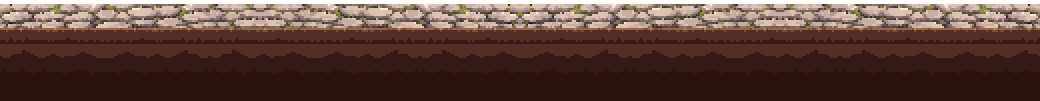
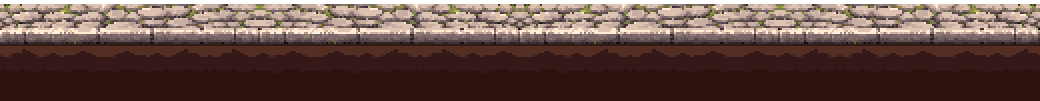
Town: paving ends fray into the turf, a curb along its front; props sorted by ground depth
tools/make_town_stone.py: k_stone gets a row of dressed curb stones on its front edge; k_stone_cap ends each STONE
span with whole cobbles thinning out into the lawn. Crates, barrels, lamps and rocks are drawn back to front by
where they meet the ground (rocks now sit at depths too); the nearer-than-the-stand-line ones stay over the people.

Claude-Session: https://claude.ai/code/session_01FzDataYedfiK9tzFLcKdoU

diff --git a/tools/make_town_stone.py b/tools/make_town_stone.py
@@ -1,0 +1,55 @@
+"""Stone paving for the town ground (owner 2026-11-06: "돌길은 옆이랑 앞이랑 이어지게 자연스럽게"), from the map scene's
+cobble piece (AI source, kept out of the repo; 1-px grid -> doubled to the town's 2-px grid).
+  k_stone.png      the paving tile: cobbles on the top, a row of dressed curb stones along the front edge, then earth
+  k_stone_cap.png  the paving's end over the lawn: whole stones thinning out raggedly into the turf, the curb ending
+                   on a stone (drawn at each end of a STONE span, mirrored on the right)
+Usage: python3 tools/make_town_stone.py COBBLE_PIECE.png"""
+import sys
+import numpy as np
+from PIL import Image
+from scipy import ndimage as ndi
+
+cob = np.array(Image.open(sys.argv[1]).convert("RGBA"))
+cl = np.array(Image.open("assets/town/k_clear.png").convert("RGBA"))
+lawn = np.array(Image.open("assets/town/k_lawn.png").convert("RGBA"))
+x2 = lambda a: np.repeat(np.repeat(a, 2, 0), 2, 1)
+TOP0, TOP1 = 4, 28                       # the walkable top's rows in the ground tiles
+band = x2(cob[12:24, 30:160])[:TOP1 - TOP0]          # cobbles, 260 wide
+band = np.concatenate([band, band[:, ::-1]], 1)      # 520, seamless by mirroring
+curb = x2(cob[0:8, 30:160])                          # 16 rows, 260 wide (period divides 520)
+W = 1040
+st = np.tile(cl, (1, 1 + W // cl.shape[1], 1))[:, :W].copy()
+t = np.tile(band, (1, W // band.shape[1], 1))
+reg = st[TOP0:TOP1]; m = t[..., 3] > 127; reg[m] = t[m]
+c = np.tile(curb, (1, W // curb.shape[1], 1))
+reg = st[TOP1:TOP1 + 16]; m = c[..., 3] > 127; reg[m] = c[m]
+# a dark shadow line under the curb, then the earth face as before
+sh = st[TOP1 + 16:TOP1 + 18]; o = sh[..., 3] > 127; sh[o, :3] = (sh[o, :3] * 0.6).astype(np.uint8)
+st[:TOP0, :, 3] = 0
+Image.fromarray(st).save("assets/town/k_stone.png")
+
+# the end cap: 96 px; left = lawn, right = paving; the edge walks along whole cobbles
+CW = 96
+cap = lawn[:, :CW].copy()
+src = st[:, :CW]
+# cobble blobs: the light stone pixels between the dark mortar
+top = src[TOP0:TOP1]
+lum = top[..., :3].astype(int).sum(-1)
+stone = (lum > np.percentile(lum[top[..., 3] > 127], 35)) & (top[..., 3] > 127)
+lab, n = ndi.label(stone)
+rng = np.random.default_rng(11)
+keep = np.zeros(n + 1, bool)
+for i in range(1, n + 1):
+    ys, xs = np.nonzero(lab == i)
+    cx = xs.mean() + rng.normal(0, 7)
+    keep[i] = cx > CW * 0.42                      # stones nearer the paving stay, the outer ones are gone
+mask = keep[lab]
+mask = ndi.binary_dilation(mask, iterations=1) & (top[..., 3] > 127)   # each kept stone with its mortar ring
+mask[:, int(CW * 0.78):] = True
+cap[TOP0:TOP1][mask] = top[mask]
+# the curb: whole from the first curb joint past the middle, nothing before it
+cx0 = int(CW * 0.5) // 2 * 2
+cap[TOP1:TOP1 + 18, cx0:] = src[TOP1:TOP1 + 18, cx0:]
+cap[TOP1:TOP1 + 18, cx0:cx0 + 2, :3] = (src[TOP1:TOP1 + 18, cx0:cx0 + 2, :3] * 0.55).astype(np.uint8)   # the curb's end face
+Image.fromarray(cap).save("assets/town/k_stone_cap.png")
+print("k_stone", st.shape, "cap", cap.shape)

diff --git a/docs/work/town-art/MEMO.md b/docs/work/town-art/MEMO.md
@@ -34,3 +34,4 @@
 - 2026-11-06 → 적용: 나무 새로(오크·둥근·어린·포플러 + 큰 나무, 훈련장 나무 2종) 도트 생성 → 실제 크기 절반 축소·정리 → 2배(2px), 잎 흔들림 다시 굽기. 큰 나무·훈련장 나무는 1.35배 확대 목록에서 뺌. 덤불은 오너가 예전 것을 선호해서 유지
 - 2026-11-06 → 적용: 건물(창고·천막·헛간·오두막·우물·대장간·모루·숯가마·본관+창문빛)·분수·덤불의 1.35배본을 디자인 그대로 2px 격자로 다시 만듦(tools/art_loop/rescale_dot.py: 원본을 2px 단위로 읽어 1.35배 재표본→원본 팔레트로 맞춤→정리→2배). 크기·문 위치·이펙트 위치 그대로. 테두리빛(rim)·용광로 다시 굽기
 - 2026-11-06 → 적용: 말 새로(서기 + 눕기·잠·일어서기 포즈를 같은 말 참조로 생성, 8프레임 띠·목/꼬리 분리 다시), 훈련장 울타리 새로(새 문 + 울타리 칸 이어 붙이기 + 과녁 2개). 훈련장 허수아비(dummy)는 그대로
+- 2026-11-06: "계속 작업하고 돌길은 옆이랑 앞이랑 이어지게 자연스럽게 처리하고, 깊이 기준은 땅에 맞다는 기준으로 보고 앞에 있을 수록 앞에. 계속 교체하던거 계속하기." → 적용: 돌길 끝은 돌이 풀 속으로 듬성듬성 사라지는 끝 조각(k_stone_cap), 앞면엔 다듬은 경계석 줄(tools/make_town_stone.py). 상자·통·가로등·바위는 땅에 닿는 깊이 순으로 그리고, 서는 선보다 앞이면 캐릭터 위로
